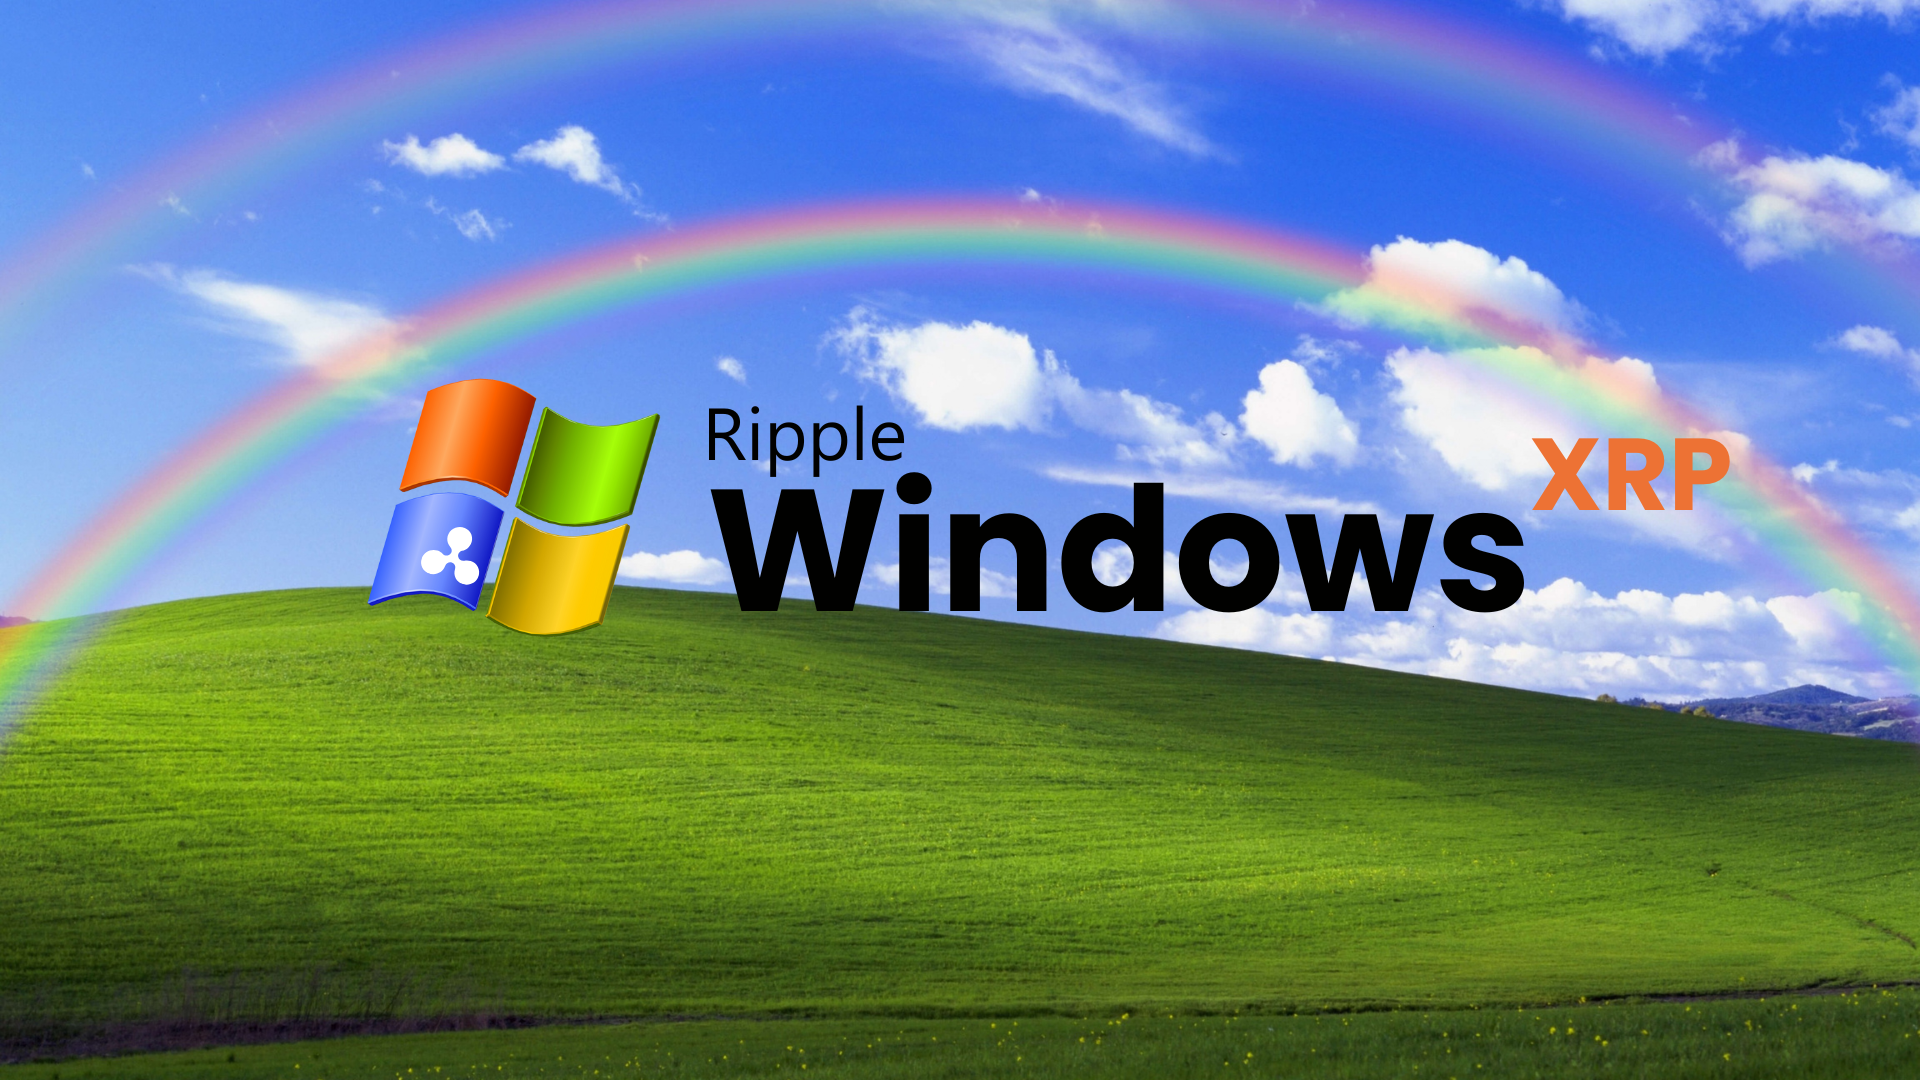
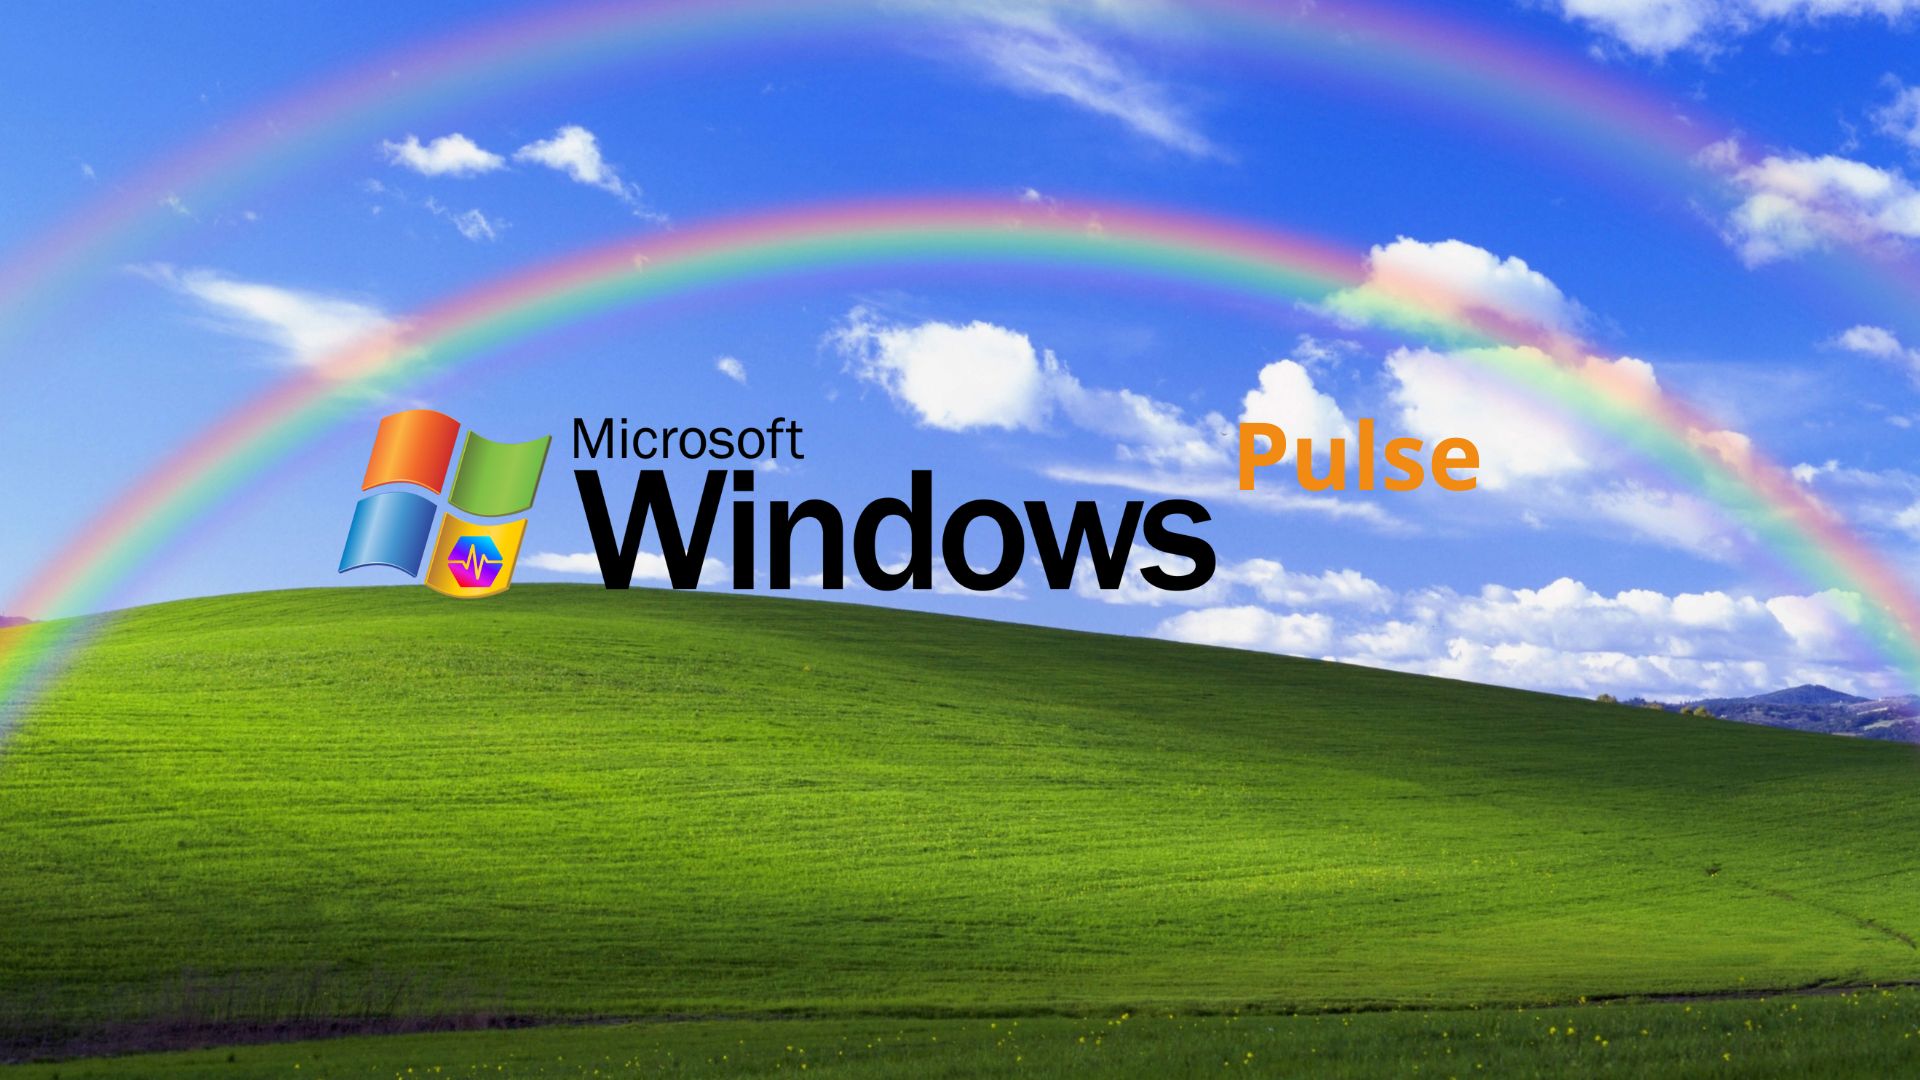
fix

Changed region(s): [[0.1562, 0.3361, 0.9062, 0.6111]]

diff --git a/index.html b/index.html
@@ -4,13 +4,13 @@
 
 <head>
   <meta charset="utf-8">
-  <title>Windows AVAX</title>
-  <meta content="Windows AVAX " name="description">
-  <meta content="Windows AVAX " property="og:title">
-  <meta content="Windows AVAX " property="og:description">
+  <title>Windows Pulse</title>
+  <meta content="Windows Pulse " name="description">
+  <meta content="Windows Pulse " property="og:title">
+  <meta content="Windows Pulse " property="og:description">
   <meta content="#" property="og:image">
-  <meta content="Windows AVAX " property="twitter:title">
-  <meta content="Windows AVAX " property="twitter:description">
+  <meta content="Windows Pulse " property="twitter:title">
+  <meta content="Windows Pulse " property="twitter:description">
   <meta content="#" property="twitter:image">
   <meta property="og:type" content="website">
   <meta content="summary_large_image" name="twitter:card">
@@ -441,12 +441,12 @@
           <div class="win-content-outer-frame">
             <div class="win-content-inner-frame">
               <div class="win-content"><a href="#" class="bin-item w-inline-block">
-                  <div class="bien-item-text">Windows AVAX
+                  <div class="bien-item-text">Windows Pulse
                   </div>
                 </a><a href="#" class="bin-item w-inline-block">
                   <div class="bien-item-text">3D-NFT-pack.zip</div>
                 </a><a href="#" class="bin-item w-inline-block">
-                  <div class="bien-item-text">Deploy-Windows AVAX
+                  <div class="bien-item-text">Deploy-Windows Pulse
                     .exe</div>
                 </a></div>
             </div>
@@ -497,13 +497,13 @@
       </a>
 
       <div class="clock-2">
-        <div class="flex-h"><a href="https://x.com/WindowsXRPL" target="_blank" class="w-inline-block"><img
+        <div class="flex-h"><a href="https://t.me/WindowsPulse" target="_blank" class="w-inline-block"><img
               src="images/65d720d339f549e9be698efb_telegram-logo-pixel.png" alt class="image-6"></a><a href=""
             target="_blank" class="w-inline-block"><img src="images/65d71deffc33dbbb24b85c16_logo-discord-pixel.png" alt
-              class="image-6"></a><a href="https://x.com/WindowsXRPL" target="_blank"
+              class="image-6"></a><a href="https://t.me/WindowsPulse" target="_blank"
             class="link-block w-inline-block"><img src="images/65d71d53b566b4f91fb8adbc_logo-x-twitter.png" alt
               class="image-6"></a>
-          <h6 class="hack23-time-version2 hide">WAVAX</h6>
+          <h6 class="hack23-time-version2 hide">WINP</h6>
         </div>
       </div>
     </div>
@@ -517,10 +517,10 @@
       class="desktop w-hidden-medium w-hidden-small w-hidden-tiny">
 
       <a id="w-node-_911b49d6-ea40-36b6-c34d-ca2528396137-fa5940a2" data-w-id="911b49d6-ea40-36b6-c34d-ca2528396137"
-        href="https://firstledger.net/token/rU9q4ToobNpm8LuXc9ArgtEzdW3VdWix21/57494E5852500000000000000000000000000000"
-        class="icon-block draggable w-inline-block"><img src="images/leger.jpg" width="Auto" height="Auto"
+        href="https://pulsex.mypinata.cloud/ipfs/bafybeiajyhfbf6evh4mdabassmbtsy73ci2gmcgh4ffmjkrgsea35vqxba/#/"
+        class="icon-block draggable w-inline-block"><img src="images/leger.png" width="Auto" height="Auto"
           style="width: 40px;border-radius: 50%;" sizes="(max-width: 991px) 100vw, 60px" alt class="win-icon handle">
-        <p class="icon-text">FirstLedger.html</p>
+        <p class="icon-text">PulseX.html</p>
       </a>
 
       <a id="w-node-_3b4e862a-12ea-e5e7-1f86-03c79f0a8498-fa5940a2" href="#" target="_blank"
@@ -537,7 +537,7 @@
         <p class="icon-text">SWAP.EXE</p>
       </a>
 
-      <a id="w-node-_42c4ac90-e262-261f-d3da-3a28cca4e7f9-fa5940a2" href="https://x.com/WindowsXRPL
+      <a id="w-node-_42c4ac90-e262-261f-d3da-3a28cca4e7f9-fa5940a2" href="https://x.com/WindowsPulse
       " target="_blank" class="icon-block draggable w-inline-block"><img
           src="images/65d71d53b566b4f91fb8adbc_logo-x-twitter.png" width="10" height="Auto" alt
           class="win-icon handle small x2">
@@ -553,7 +553,7 @@
         <p class="icon-text tag">(999+)</p>
       </a>
 
-      <a id="w-node-_98696d31-f657-2a46-99d4-e65f13122bee-fa5940a2" href="https://x.com/WindowsXRPL" target="_blank"
+      <a id="w-node-_98696d31-f657-2a46-99d4-e65f13122bee-fa5940a2" href="https://x.com/WindowsPulse" target="_blank"
         class="icon-block draggable w-inline-block"><img src="images/65d7bfcb85a47be31f4b20b7_tg-pixel-logo.png"
           sizes="(max-width: 991px) 100vw, 40px" height width="65" alt
           srcset="images/65d7bfcb85a47be31f4b20b7_tg-pixel-logo-p-500.png 500w, images/65d7bfcb85a47be31f4b20b7_tg-pixel-logo-1.png 524w"
@@ -609,7 +609,7 @@
 
     <div style="" class="mobile">
 
-      <a id="w-node-e47fd2c7-f5f1-bb64-9363-93c3c7cabebf-fa5940a2" href="https://x.com/WindowsXRPL
+      <a id="w-node-e47fd2c7-f5f1-bb64-9363-93c3c7cabebf-fa5940a2" href="https://x.com/WindowsPulse
       " target="_blank" class="icon-block draggable w-inline-block"><img
           src="images/65d71d53b566b4f91fb8adbc_logo-x-twitter.png" width="10" height="Auto" alt
           class="win-icon handle small x2">
@@ -641,7 +641,7 @@
         <p class="icon-text tag">(285)</p>
       </a>
 
-      <a id="w-node-e7e03d8e-0ed1-f2f7-a2ef-ba81b0a678b4-fa5940a2" href="https://x.com/WindowsXRPL" target="_blank"
+      <a id="w-node-e7e03d8e-0ed1-f2f7-a2ef-ba81b0a678b4-fa5940a2" href="https://x.com/WindowsPulse" target="_blank"
         class="icon-block draggable w-inline-block"><img src="images/65d7bfcb85a47be31f4b20b7_tg-pixel-logo.png"
           sizes="(max-width: 991px) 40px, 100vw" height width="65" alt
           srcset="images/65d7bfcb85a47be31f4b20b7_tg-pixel-logo-p-500.png 500w, images/65d7bfcb85a47be31f4b20b7_tg-pixel-logo-1.png 524w"
@@ -665,9 +665,9 @@
 
       <a id="w-node-_469b9243-b91b-b299-c366-b1c77b889fb6-fa5940a2" data-w-id="469b9243-b91b-b299-c366-b1c77b889fb6"
         href="#" class="icon-block draggable w-inline-block"><img style="width: 30px;border-radius: 50px;"
-          src="images/leger.jpg" width="Auto" height="Auto" sizes="(max-width: 991px) 60px, 100vw" alt="WAVAX"
+          src="images/leger.jpg" width="Auto" height="Auto" sizes="(max-width: 991px) 60px, 100vw" alt="WINP"
           class="win-icon handle">
-        <p class="icon-text">FirstLedger.html</p>
+        <p class="icon-text">PulseX.html</p>
       </a>
 
       <a id="w-node-c60d7db1-6134-d54c-3d18-e573cc915331-fa5940a2" data-w-id="c60d7db1-6134-d54c-3d18-e573cc915331"
